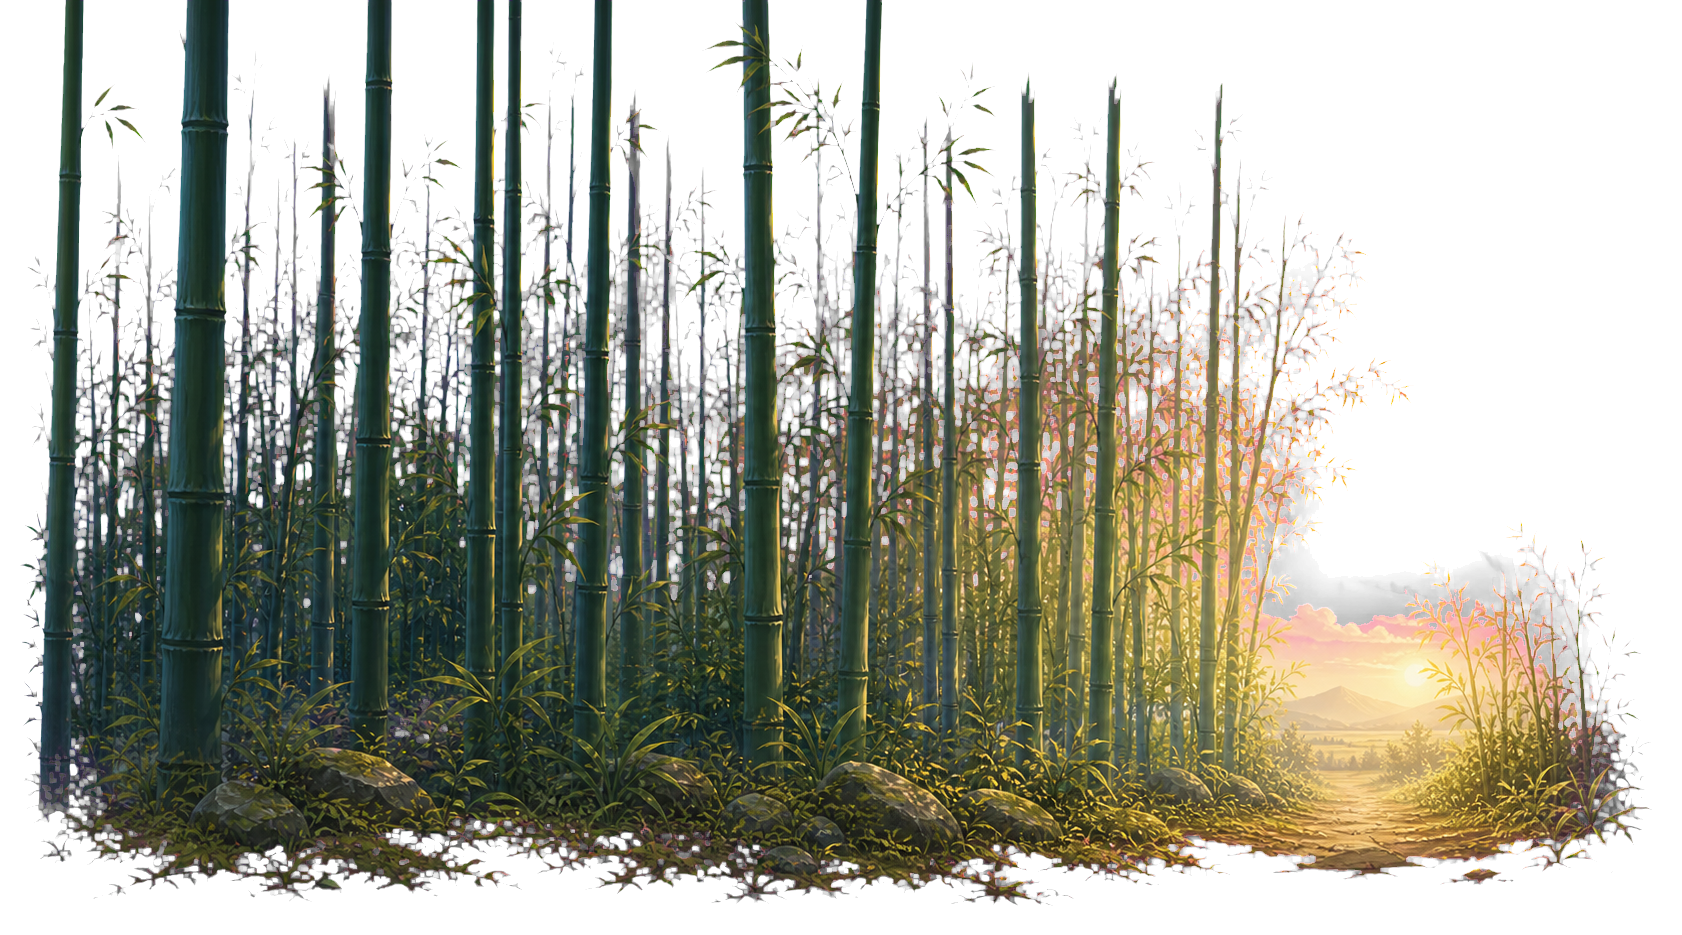
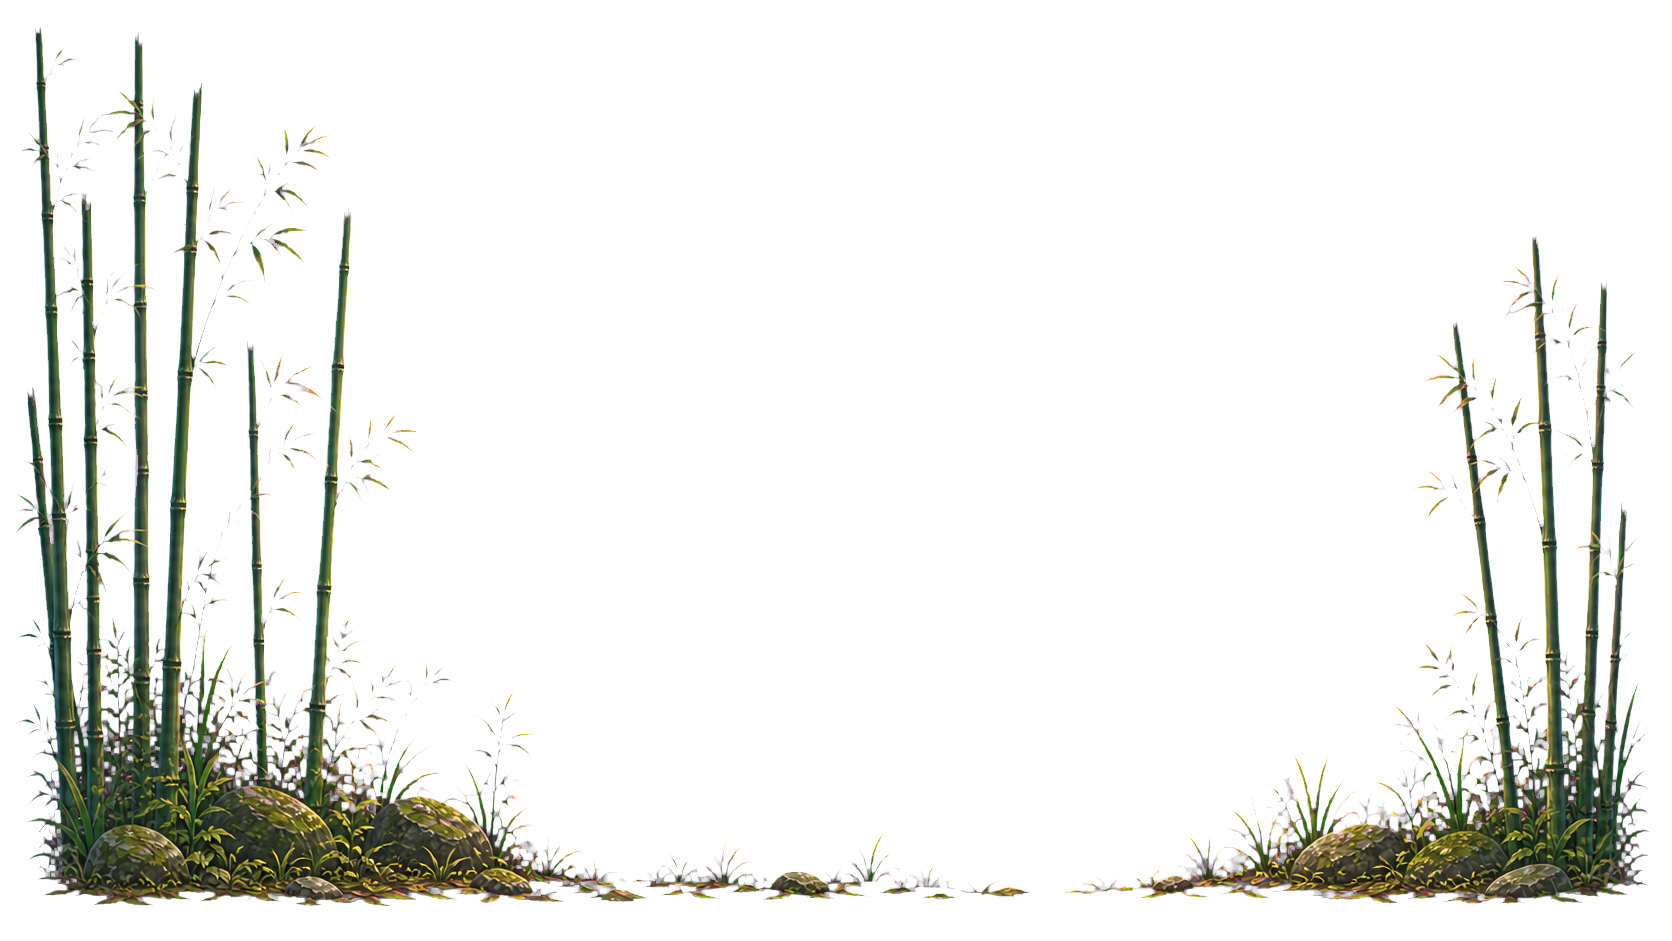
feat: implement bamboo exit clipping and adjust parallax background parameters

diff --git a/js/stage.js b/js/stage.js
@@ -3233,102 +3233,137 @@ export class Stage {
             ctx.restore();
         };
 
+        const exitReveal = this.getStage1BambooExitRevealRect();
+        ctx.save();
+        if (exitReveal) {
+            ctx.beginPath();
+            ctx.rect(0, 0, CANVAS_WIDTH, CANVAS_HEIGHT);
+            ctx.rect(exitReveal.x, exitReveal.y, exitReveal.width, exitReveal.height);
+            ctx.clip('evenodd');
+        }
+
         drawStrip(images.far, {
             parallax: 0.18,
-            drawHeight: 800,
-            baseOffset: 96,
-            alpha: 0.66,
-            widthScale: 0.58,
+            drawHeight: 720,
+            baseOffset: 82,
+            alpha: 0.42,
+            widthScale: 0.44,
             bendAmount: 0.5,
             bendSpeed: 0.35,
             bendPhase: 0.6,
-            filter: 'brightness(0.68) saturate(0.66) contrast(0.84) hue-rotate(-22deg)'
+            filter: 'brightness(0.76) saturate(0.64) contrast(0.86) hue-rotate(-22deg)'
         });
         drawStrip(images.far, {
             parallax: 0.24,
-            drawHeight: 760,
-            baseOffset: 94,
-            alpha: 0.28,
-            widthScale: 0.56,
+            drawHeight: 690,
+            baseOffset: 80,
+            alpha: 0.1,
+            widthScale: 0.42,
             phaseOffset: 0.45,
             bendAmount: 0.4,
             bendSpeed: 0.32,
             bendPhase: 2.2,
-            filter: 'brightness(0.64) saturate(0.64) contrast(0.82) hue-rotate(-22deg)'
+            filter: 'brightness(0.72) saturate(0.62) contrast(0.84) hue-rotate(-22deg)'
         });
         drawStrip(images.mid, {
             parallax: 0.44,
-            drawHeight: 790,
-            baseOffset: 104,
-            alpha: 0.9,
-            widthScale: 0.54,
+            drawHeight: 720,
+            baseOffset: 92,
+            alpha: 0.68,
+            widthScale: 0.42,
             bendAmount: 0.9,
             bendSpeed: 0.45,
             bendPhase: 1.4,
-            filter: 'brightness(0.76) saturate(0.74) contrast(0.9) hue-rotate(-22deg)'
+            filter: 'brightness(0.82) saturate(0.72) contrast(0.9) hue-rotate(-22deg)'
         });
         drawStrip(images.mid, {
             parallax: 0.57,
-            drawHeight: 750,
-            baseOffset: 100,
-            alpha: 0.34,
-            widthScale: 0.52,
+            drawHeight: 690,
+            baseOffset: 88,
+            alpha: 0.12,
+            widthScale: 0.4,
             phaseOffset: 0.38,
             bendAmount: 0.7,
             bendSpeed: 0.42,
             bendPhase: 3.1,
-            filter: 'brightness(0.7) saturate(0.7) contrast(0.88) hue-rotate(-22deg)'
+            filter: 'brightness(0.76) saturate(0.68) contrast(0.88) hue-rotate(-22deg)'
         });
         drawStrip(images.near, {
             parallax: 0.82,
-            drawHeight: 760,
-            baseOffset: 108,
-            alpha: 0.86,
-            widthScale: 0.5,
+            drawHeight: 700,
+            baseOffset: 98,
+            alpha: 0.72,
+            widthScale: 0.38,
             bendAmount: 1.2,
             bendSpeed: 0.52,
             bendPhase: 0,
-            filter: 'brightness(0.84) saturate(0.78) contrast(0.94) hue-rotate(-22deg)'
+            filter: 'brightness(0.88) saturate(0.76) contrast(0.94) hue-rotate(-22deg)'
         });
         drawStrip(images.near, {
             parallax: 0.96,
-            drawHeight: 720,
-            baseOffset: 104,
-            alpha: 0.28,
-            widthScale: 0.5,
+            drawHeight: 660,
+            baseOffset: 94,
+            alpha: 0.08,
+            widthScale: 0.36,
             phaseOffset: 0.33,
             bendAmount: 0.9,
             bendSpeed: 0.48,
             bendPhase: 2.7,
-            filter: 'brightness(0.78) saturate(0.74) contrast(0.92) hue-rotate(-22deg)'
+            filter: 'brightness(0.82) saturate(0.72) contrast(0.92) hue-rotate(-22deg)'
         });
 
+        ctx.restore();
         return true;
     }
 
-    renderStage1BambooExit(ctx) {
-        if (this.stageNumber !== 1) return false;
+    getStage1BambooExitDrawSpec(image = this.stage1BambooExitImage) {
+        if (this.stageNumber !== 1) return null;
+        if (!image || !image.complete || image.naturalWidth <= 0 || image.naturalHeight <= 0) return null;
 
-        const image = this.stage1BambooExitImage;
-        if (!image || !image.complete || image.naturalWidth <= 0 || image.naturalHeight <= 0) return false;
-
-        // 通常背景の延長として描き、下端は地面レイヤーに沈めて浮きを防ぐ
         const baseY = this.groundY + 64;
         const exitH = Math.min(CANVAS_HEIGHT * 0.82, this.groundY + 110);
         const exitW = Math.min(CANVAS_WIDTH * 1.18, exitH * (image.naturalWidth / image.naturalHeight));
         const cameraStopX = Math.max(0, this.maxProgress - CANVAS_WIDTH);
         const stopX = Math.round(CANVAS_WIDTH - exitW + 72);
         const worldX = cameraStopX + stopX;
-        const x = worldX - this.progress;
-        const y = baseY - exitH;
+
+        return {
+            x: worldX - this.progress,
+            y: baseY - exitH,
+            width: exitW,
+            height: exitH
+        };
+    }
+
+    getStage1BambooExitRevealRect() {
+        const spec = this.getStage1BambooExitDrawSpec();
+        if (!spec) return null;
+
+        const left = Math.max(0, spec.x + spec.width * 0.28);
+        const right = Math.min(CANVAS_WIDTH, spec.x + spec.width * 0.84);
+        const top = Math.max(0, spec.y + spec.height * 0.08);
+        const bottom = Math.min(this.groundY + 24, spec.y + spec.height * 0.9);
+        const width = right - left;
+        const height = bottom - top;
+
+        if (width <= 2 || height <= 2) return null;
+        return { x: left, y: top, width, height };
+    }
+
+    renderStage1BambooExit(ctx) {
+        if (this.stageNumber !== 1) return false;
+
+        const image = this.stage1BambooExitImage;
+        const spec = this.getStage1BambooExitDrawSpec(image);
+        if (!spec) return false;
 
         const prewarmMarginRight = CANVAS_WIDTH * 2.2;
-        if (x + exitW < -200 || x > CANVAS_WIDTH + prewarmMarginRight) return false;
+        if (spec.x + spec.width < -200 || spec.x > CANVAS_WIDTH + prewarmMarginRight) return false;
 
         ctx.save();
-        ctx.globalAlpha *= 0.9;
-        ctx.filter = 'brightness(0.78) saturate(0.74) contrast(0.9) hue-rotate(-12deg)';
-        ctx.drawImage(image, x, y, exitW, exitH);
+        ctx.globalAlpha *= 0.95;
+        ctx.filter = 'brightness(0.82) saturate(0.78) contrast(0.92) hue-rotate(-12deg)';
+        ctx.drawImage(image, spec.x, spec.y, spec.width, spec.height);
         ctx.filter = 'none';
         ctx.restore();
         return true;
